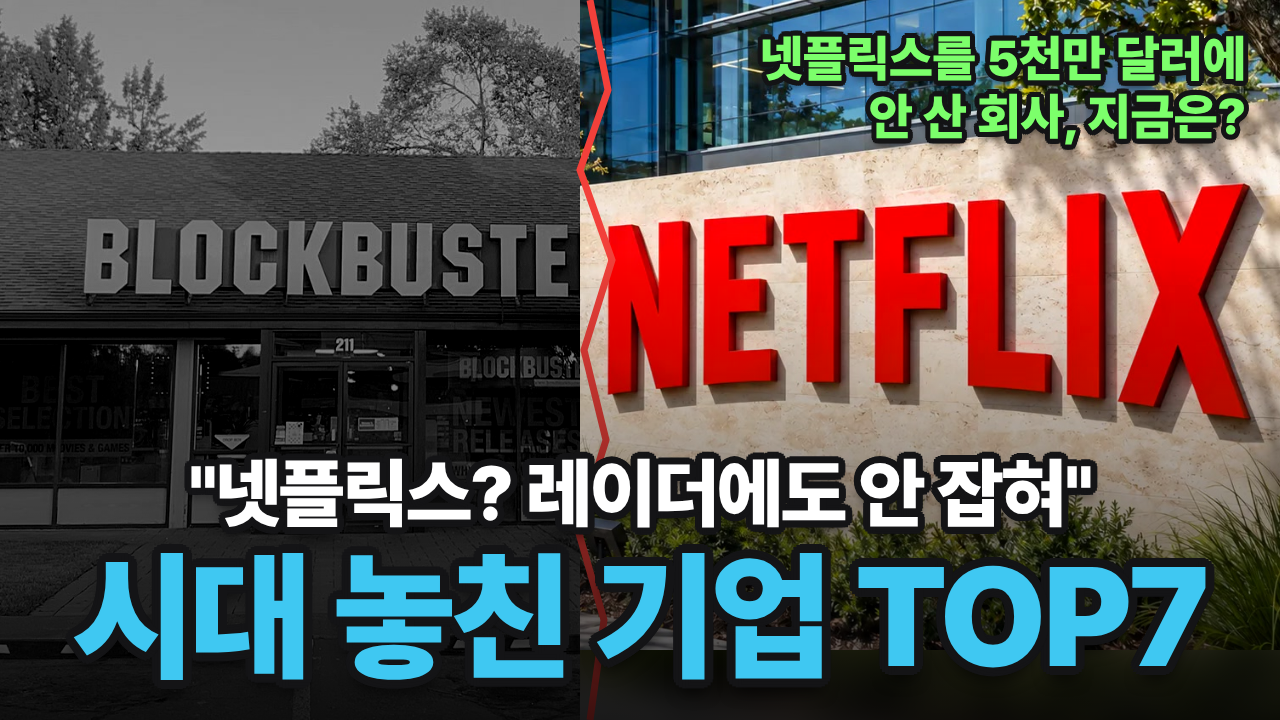
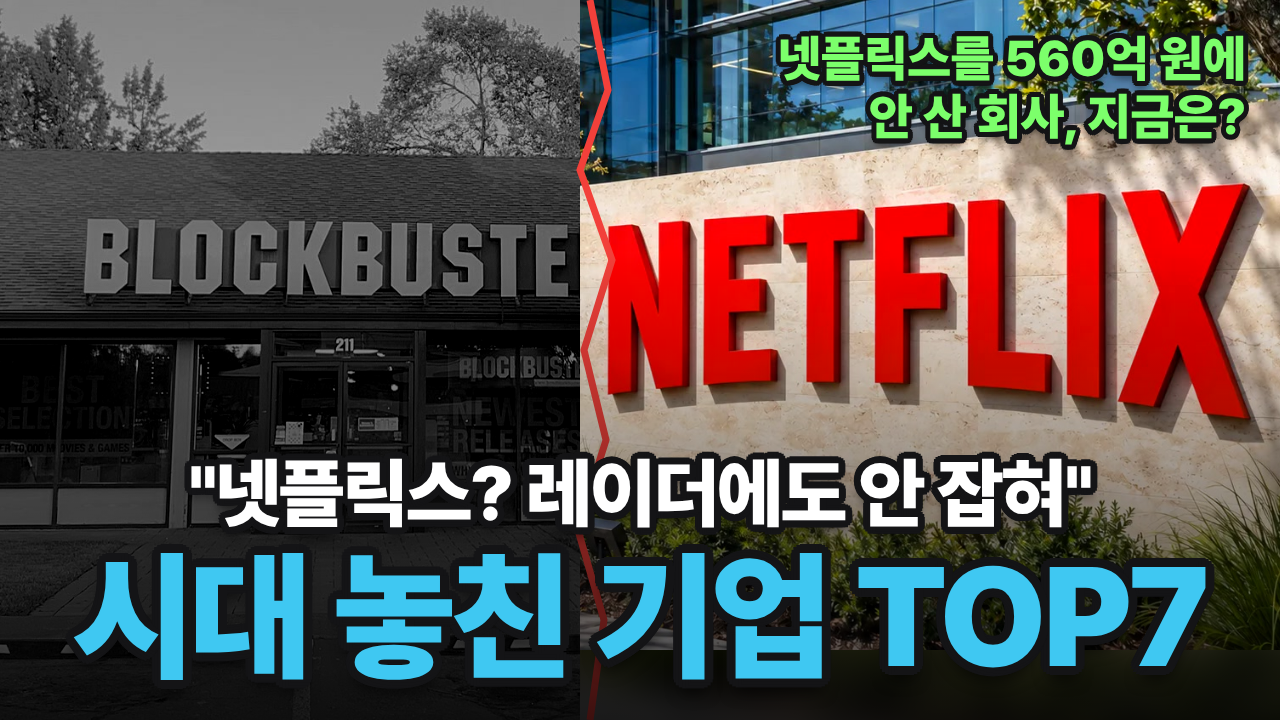
Say money in approximate won at the time; update thumbnail hook
Claude-Session: https://claude.ai/code/session_01RLcyHUEQojNezdTodVGnHY

Changed region(s): [[0.5938, 0.0306, 0.9375, 0.1222]]

diff --git a/src/Thumbnail.tsx b/src/Thumbnail.tsx
@@ -24,7 +24,7 @@ export const Thumbnail: React.FC = () => {
       </svg>
       <AbsoluteFill style={{ background: "linear-gradient(180deg, rgba(0,0,0,0) 35%, rgba(0,0,0,0.75) 100%)" }} />
       <div style={{ position: "absolute", right: 34, top: 30, textAlign: "right", color: "#7CFF6B", fontSize: 50, fontWeight: 900, lineHeight: 1.15, ...outlined(10) }}>
-        넷플릭스를 5천만 달러에
+        넷플릭스를 560억 원에
         <br />
         안 산 회사, 지금은?
       </div>

diff --git a/content/script_20min_v2.md b/content/script_20min_v2.md
@@ -1,6 +1,7 @@
 # 시대를 놓치고 몰락한 기업 TOP7 — 20분 대본 v2 (더 머니북식 양식 적용)
 
-- 내레이션 본문: `script_20min_v2.txt` (공백 뺀 6,379자 ≈ 19~20분)
+- 내레이션 본문: `script_20min_v2.txt` (공백 뺀 약 6,410자 ≈ 19~20분)
+- 금액은 모두 원화로 바꿔 말합니다(그 시점 환율 기준 대략치, 근거 대장 68번).
 - 양식: 「더 머니북식 순위형 대본 — 양식·검수표 v0.1」
 - 모든 인용과 숫자는 웹에서 출처를 찾아 넣었습니다. 아래 F의 「확인」 칸이 "원문 재확인"인 항목은 업로드 전에 원문 페이지를 열어 문구를 한 번 더 확인해 주세요. 조사 도구가 원문 페이지를 직접 열지 못하고, 여러 매체 인용으로만 확인한 것들입니다.
 
@@ -21,7 +22,7 @@
 
 | 썸네일 요소 | 내용 | 인트로에서 답하는 곳 |
 |---|---|---|
-| 오른쪽 위 질문(초록) | 넷플릭스를 5천만 달러에 / 안 산 회사, 지금은? | 첫 장면: 2000년 댈러스, 5천만 달러 제안과 웃음 → "그 작은 회사가 넷플릭스였죠" |
+| 오른쪽 위 질문(초록) | 넷플릭스를 560억 원에 / 안 산 회사, 지금은? | 첫 장면: 2000년 댈러스, 당시 돈 560억 원 제안과 웃음 → "그 작은 회사가 넷플릭스였죠" |
 | 가운데 인용(흰색) | "넷플릭스? 레이더에도 안 잡혀" (2008년 CEO 발언 요지) | 둘째 장면: 블록버스터 CEO "레드박스도 넷플릭스도, 경쟁 상대로는 레이더에조차 안 잡힙니다" |
 | 왼쪽 사진 | 마지막 남은 블록버스터(오리건주 벤드), 회색으로 바램 | "그럼 지금은?" → "블록버스터는 전 세계에 딱 한 곳 남았고" |
 | 오른쪽 사진 | 넷플릭스 본사 간판, 컬러(사용자가 준비한 AI 생성 이미지) | "그 작은 회사가 넷플릭스였죠" — 비웃은 쪽과 비웃음당한 쪽의 대비 |
@@ -31,7 +32,7 @@
 
 | 순위 | 곳 | 추억 장면 | 정점 숫자 | 오만한 발언 | 변명 발언 | 대가 숫자 | 현장 한숨 | 꼬리 펀치 |
 |---|---|---|---|---|---|---|---|---|
-| 7 | 야후 | 요들송 광고, 첫 화면 | 시총 약 1,250억 달러(2000.1) | 이사회 "가치를 크게 과소평가" / 제리 양 "방해물이 사라졌다" | 메이어 "망치지 않겠다" | 약 45억 달러에 매각(2017) | 지오시티 폐쇄 때 기록 보관가 "불타는 건물…" | 446억을 과소평가라던 회사가 10분의 1에 |
+| 7 | 야후 | 요들송 광고, 첫 화면 | 시총 약 140조 원(2000.1) | 이사회 "가치를 크게 과소평가" / 제리 양 "방해물이 사라졌다" | 메이어 "망치지 않겠다" | 약 5조 원에 매각(2017) | 지오시티 폐쇄 때 기록 보관가 "불타는 건물…" | 42조 원을 과소평가라던 회사가 8분의 1 값에 |
 | 6 | 토이저러스 | 토이저러스 키즈 노래, 기린 제프리 | 미국 장난감 매출 약 1/4(1990) | CEO "누구에게도 뒤지지 않는다"(아마존 계약) | 대변인 "퇴직금 절차를 따를 수 없었다" / CEO "새 시대가 열리는 날" | 매장 약 735곳 폐점, 약 3만 3천 명 실직 | 직원 "이런 직장은 다신 없을 것" | 새 시대는 딱 반년 |
 | 5 | 블랙베리 | 크랙베리, 오바마 | 세계 스마트폰 점유율 약 20%(2009) | 발실리 "경쟁자 하나 더… 과장" / "우린 괜찮을 거야" | 발실리 회고 "고급 하드웨어로는 못 이긴다" | 7년 만에 사실상 0%, 2016 생산 포기 | 워털루 상인 "앞날을 모른다" | 편 고르기 질문 |
 | 4 | 시어스 | 카탈로그, 위시북 | 미국 최대 유통(1990년까지), 시어스 타워 | 램퍼트 "고객은 더 필요 없다" | 마르티네스 "카탈로그는 우리의 유산" / 램퍼트 "역사 때문에 비판의 표적" | 2018 파산보호, 시어스 매장 5곳 정도 | 시카고 손님 "어릴 때부터 남은 유일한 것" / "이제 다 아마존?" | 카탈로그를 접은 회사의 마지막 손님이 아마존 걱정 |
@@ -125,13 +126,14 @@
 | 64 | 새슨: 문제는 기술이 아니라 필름 사업 구조(여러 인터뷰 요지, 직접 인용 아님) | 회고 | 2차 | https://nationalmedals.org/stories/aewss-recap/ |
 | 65 | 후지필름 2000년 필름 매출 60%, 10년 새 수요 1/10 이하, 고모리 "The company's core photographic film market was shrinking at a spectacular rate…" | 보도·책 | 2차 | https://petapixel.com/2018/10/19/why-kodak-died-and-fujifilm-thrived-a-tale-of-two-film-companies/ · https://radiologybusiness.com/topics/medical-imaging/new-book-fujifilm-chairman-ceo-shigetaka-komori-explains-companys-dramatic |
 | 66 | 후지필름 콜라겐 → 화장품(아스타리프트 2007) | 보도 | 2차 | https://www.nippon.com/en/features/c00511/ |
+| 68 | 원화 환산에 쓴 환율(대략치): 1993년 약 800원 · 2000년 약 1,110~1,130원 · 2005년 약 1,020원 · 2008년 2월 약 945원 · 2012년 약 1,090~1,135원 · 2013년 약 1,110원(유로 약 1,440원) · 2017년 약 1,135원 · 2019년 약 1,210원 · 살로 세수는 2010년대 유로 약 1,400~1,500원 | 추정 | **원문 재확인**(한국은행 ECOS) | https://ecos.bok.or.kr |
 | 67 | 헤이스팅스 "Companies rarely die from moving too fast…"(2011.9.18 넷플릭스 블로그) | 확정 | 2차 | https://blog.netflix.com/2011/09/explanation-and-some-reflections.html |
 
 ## 검수 결과 (양식 10절)
 
 | # | 항목 | 기준 | v2 | 판정 |
 |---|---|---|---|---|
-| 1 | 길이 | 공백 뺀 6,000~6,900자 | 6,379자 | 통과 |
+| 1 | 길이 | 공백 뺀 6,000~6,900자 | 약 6,410자 | 통과 |
 | 2 | 인트로 | 300~330자, ①④⑤⑦⑨ | 327자, 9단계 모두. 넷플릭스 창업자와 블록버스터의 2000년 회의 장면으로 시작, 썸네일 질문 2개에 답함 | 통과 |
 | 3 | 순위 떡밥 | 인트로 장면이 7위 / "이것조차 N위" | "이 블록버스터조차 3위", 셋째 겹 야후가 7위로 이어짐 | 통과 |
 | 4 | 사례 길이 | 1위 ≥ 평균 1.4배, 2위 두 번째 | 1.42배, 2위 두 번째 | 통과 |
